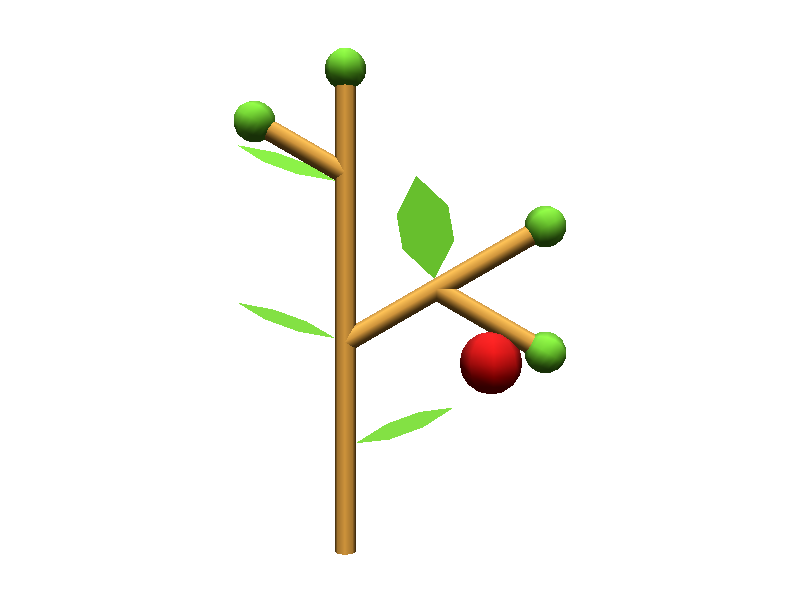
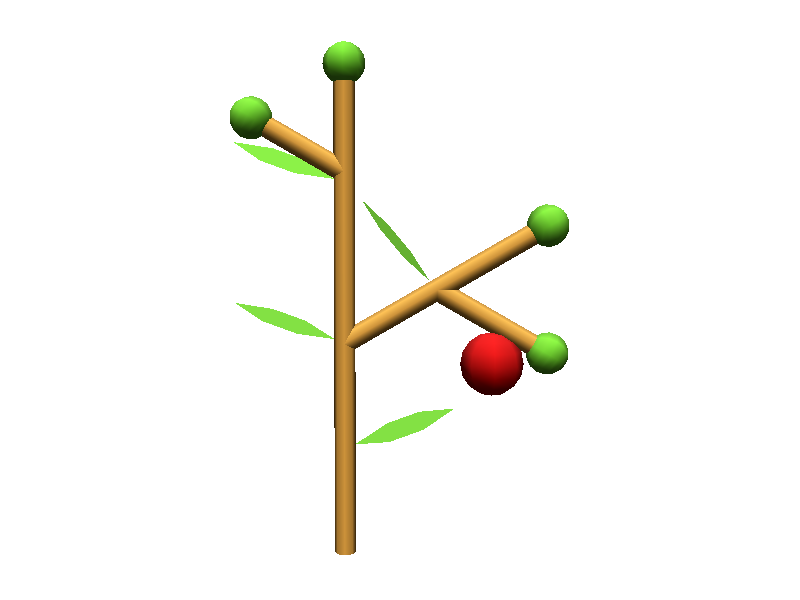
Table of primitives explained in the page added on the top of it

diff --git a/doc/user/turtleBasic.rst b/doc/user/turtleBasic.rst
@@ -1,6 +1,19 @@
 L-Py Turtle basic primitives
 ############################
 
+
+
+.. csv-table:: There is the list of the primitives explained in this page :
+    :header: `Simple Turtle instructions`_, `Some useful tools`_ and `Branching system`_, `Rotating with HLU (Main primitives)`_, `Moving the Turtle`_\, `Orient the Turtle`_ and `Setting the HLU axis`_, `Long path`_\, `Drawing lines`_\, `SetGuide`_ and `Generalized cylinders`_
+
+    "F", "_", "/", "MoveTo", "nF"
+    "f", "!", "\\", "MoveRel", "LineTo"
+    "@O", ";", "^", "Pinpoint", "LineRel"
+    "@o", ",", "&", "PinpointRel", "OLineTo"
+    "@B", "setColor", "\+", "@R", "OLineRel"
+    "@b", "[", "\-", "EulerAngles", "SetGuide and EndGuide"
+    "_", "]", "Frame",, "@Gc and @Ge"
+
 Constructing basic shapes with the Turtle
 ~~~~~~~~~~~~~~~~~~~~~~~~~~~~~~~~~~~~~~~~~
 
@@ -63,10 +76,10 @@ Other basic geometric primitives make it possible to draw other predifined shape
 	# It can take one argument which is the radius of the circle.
 
 	Axiom: @B(1)	# Draws a box at the Turtle's position.
-	# It can take two argument which are the length of the edges and the topradius.
+	# It can take two arguments which are the length of the edges and the topradius.
 
 	Axiom: @b(1)	# Draws a quad at the Turtle's position.
-	# It can take two argument which are the length of the edges and the topradius.
+	# It can take two arguments which are the length of the edges and the topradius.
 
 +----------------------------------+----------------------------------+
 | .. image:: ../_images/sphere.png | .. image:: ../_images/circle.png |
@@ -170,7 +183,7 @@ The first way is to specify the index of the material (Fig. A) and the second wa
 Primitive combinations
 ======================
 
-All these primitives can be combined together. There are two examples :
+All these primitives can be combined together (**~l** draws a leaf). There are two examples :
 
 .. code-block:: python
 

diff --git a/doc/user/turtleAdvanced.rst b/doc/user/turtleAdvanced.rst
@@ -13,12 +13,12 @@ A special primitive is already predifined : **~l**. It draws a leaf.
 
 .. code-block:: python
 
-	Axiom: ~l 	#(Fig. A)
+	Axiom: ~l 			#(Fig. A)
 
 	Axiom: @g(Sphere(radius=3)) 	#(Fig. B)
 
 	execContext().turtle.setSurface('t',Sphere(radius=3))
-	Axiom: ~t(5) 	#(Fig. C)
+	Axiom: ~t(5) 			#(Fig. C)
 
 +--------------------------------+--------------------------------+--------------------------------+
 | .. image:: ../_images/leaf.png |                                |                                |
